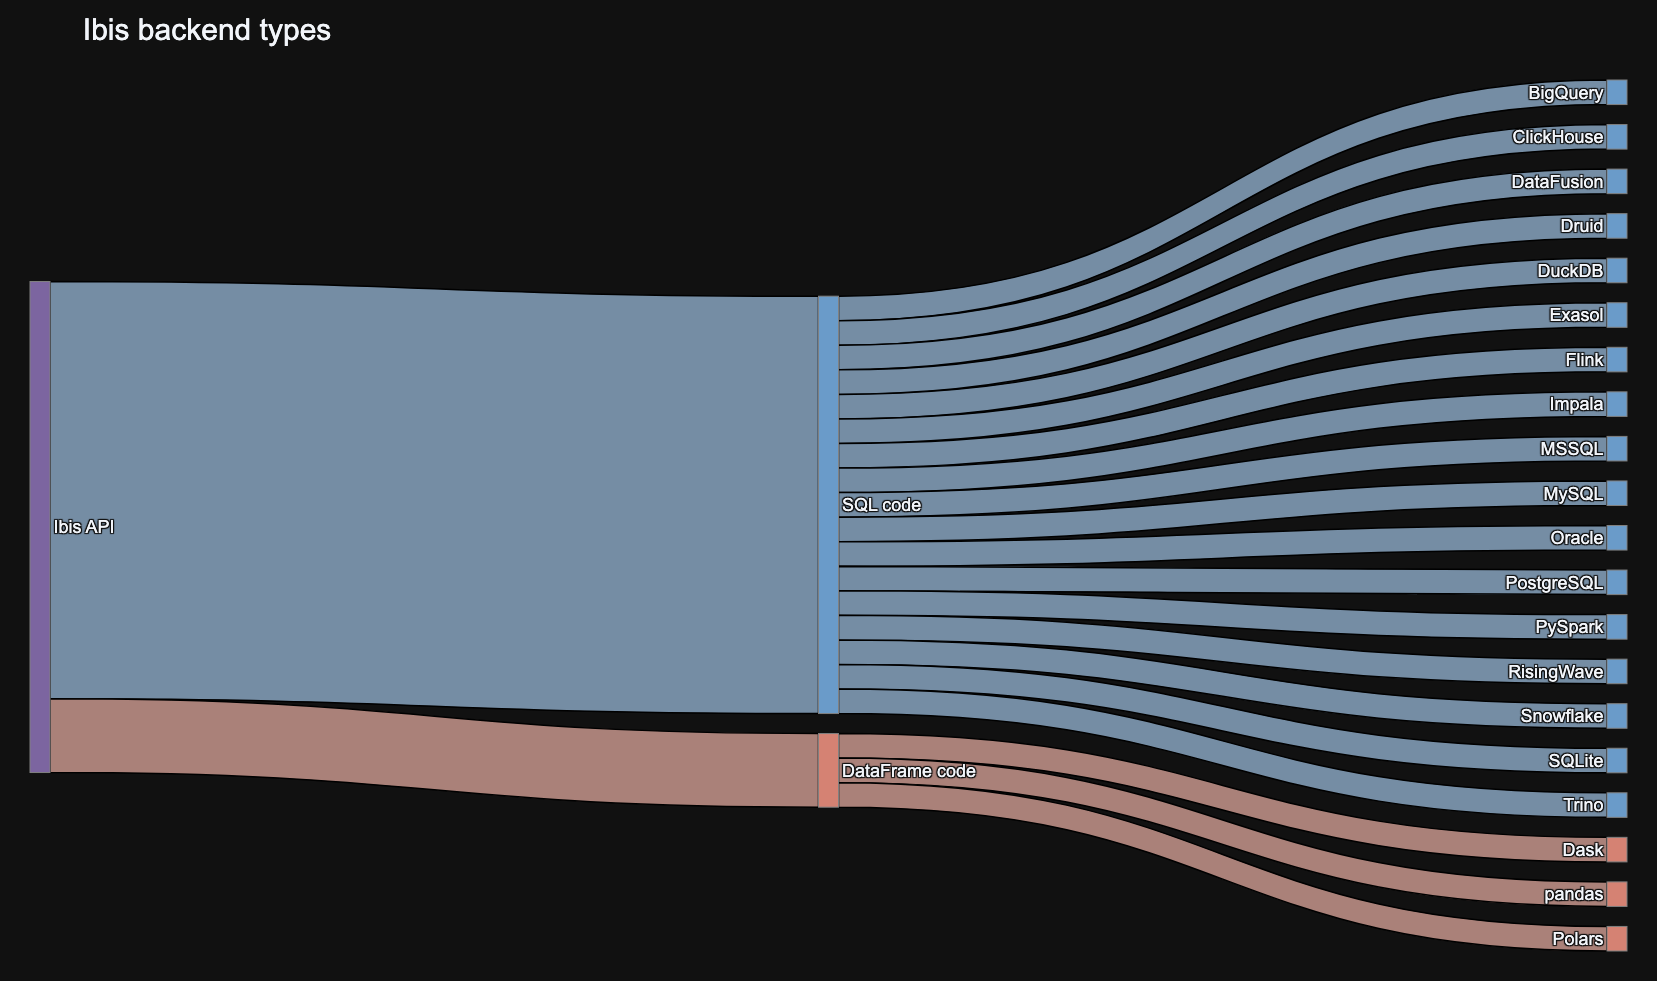
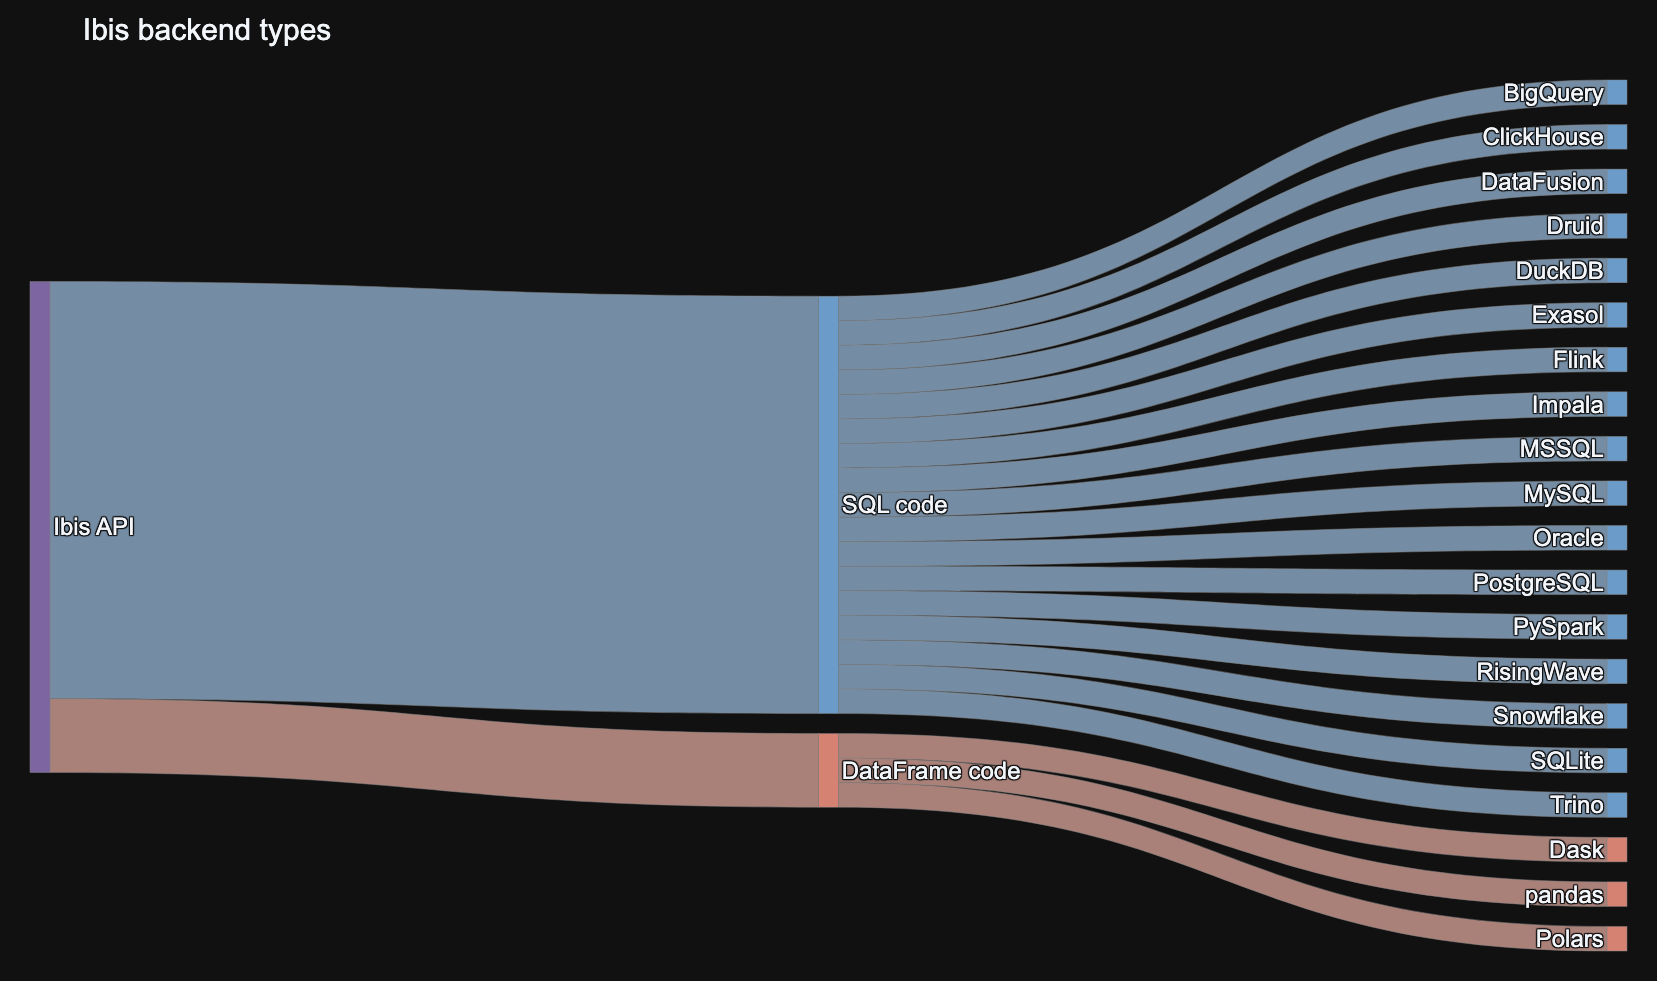
minor updates

diff --git a/docs/backends_sankey.py b/docs/backends_sankey.py
@@ -80,7 +80,7 @@ def create_sanky(theme="light"):
                 node=dict(
                     pad=20,
                     thickness=20,
-                    line=dict(color="grey", width=1),
+                    line=dict(color="grey", width=0.5),
                     label=[node["label"] for node in nodes],
                     color=[node["color"] for node in nodes],
                 ),
@@ -88,7 +88,7 @@ def create_sanky(theme="light"):
                     source=[link["source"] for link in links],
                     target=[link["target"] for link in links],
                     value=[link["value"] for link in links],
-                    line=dict(color="black", width=1.5),
+                    line=dict(color="grey", width=0.5),
                     color=[
                         to_greyish(nodes[link["target"]]["color"]) for link in links
                     ],
@@ -98,7 +98,7 @@ def create_sanky(theme="light"):
     )
     fig.update_layout(
         title_text="Ibis backend types",
-        font_size=18,
+        font_size=24,
         font_family="Arial",
         title_font_size=30,
         margin=dict(l=30, r=30, t=80, b=30),
